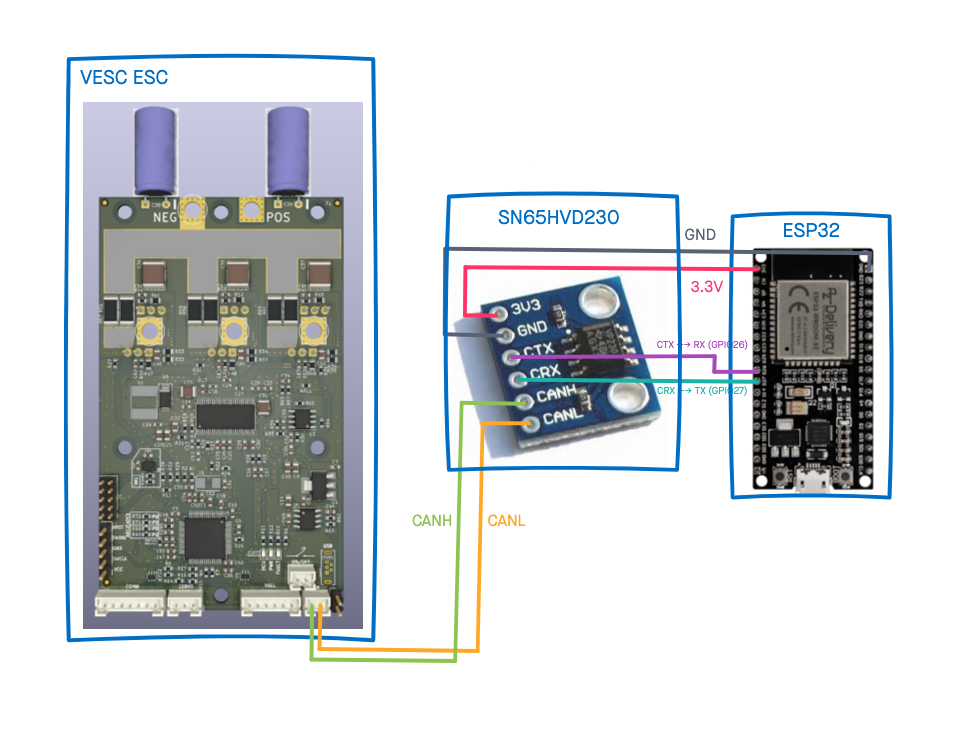
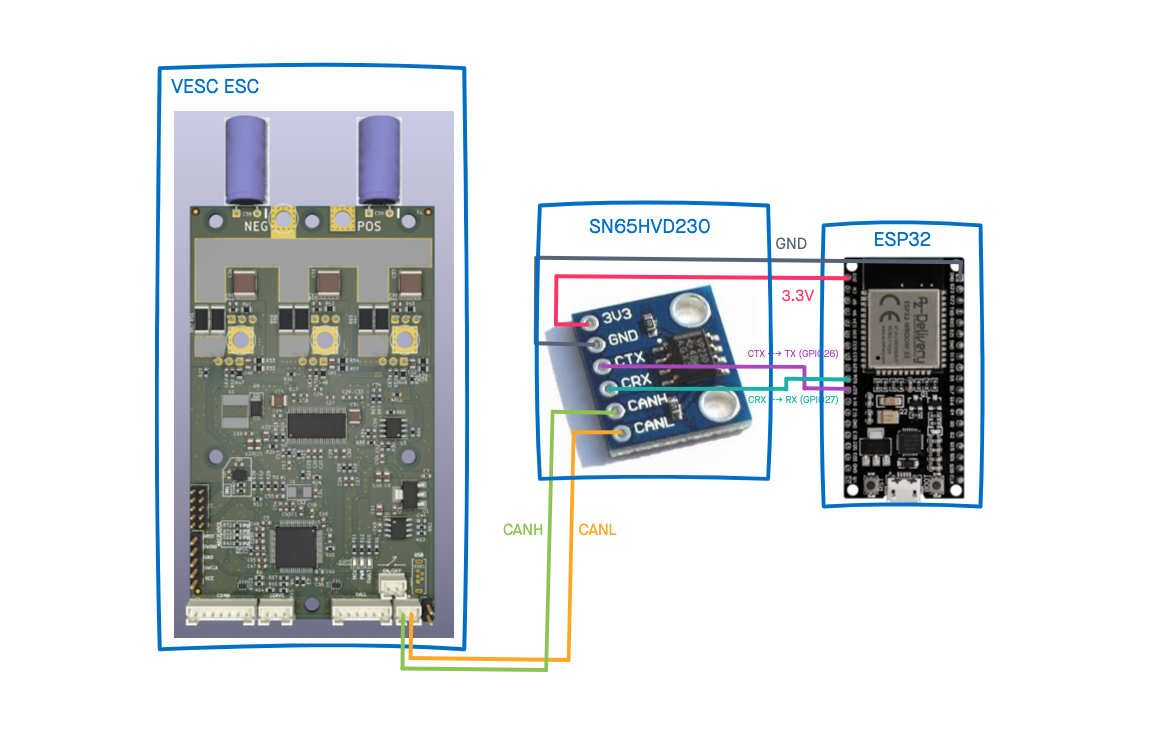
Updated config and doc according to PCB rev3

diff --git a/src/config.h b/src/config.h
@@ -18,7 +18,7 @@
 //#define LED_COB    // enables the light controller for tri-color COB-stripes
 
 #ifdef LED_WS28xx
- #define NUMPIXELS    16  // the number of LEDs if WS28xx is used
+ #define NUMPIXELS    32  // the number of LEDs if WS28xx is used
  #define LED_MODE_ODD_EVEN
 #endif //LED_WS28xx
 #ifdef LED_COB
@@ -61,7 +61,7 @@
   #define BLYNK_AUTH_TOKEN "bb48a7193d764ea7a90dbffb54ffcb76"
 #endif
 
-////#define FAKE_VESC_ENABLED
+///#define FAKE_VESC_ENABLED
 
 #endif //__CONFIG_H__
 

diff --git a/src/CanBus.cpp b/src/CanBus.cpp
@@ -27,10 +27,8 @@ CanBus::CanBus() {}
 
 void CanBus::init() {
     CAN_cfg.speed=CAN_SPEED_500KBPS;
-    //CAN_cfg.tx_pin_id = GPIO_NUM_26;
-    //CAN_cfg.rx_pin_id = GPIO_NUM_27;
-    CAN_cfg.tx_pin_id = GPIO_NUM_27;
-    CAN_cfg.rx_pin_id = GPIO_NUM_26;
+    CAN_cfg.tx_pin_id = GPIO_NUM_26;
+    CAN_cfg.rx_pin_id = GPIO_NUM_27;
     CAN_cfg.rx_queue = xQueueCreate(50,sizeof(CAN_frame_t));
   /*  
     CAN_filter_t p_filter;

diff --git a/README.md b/README.md
@@ -54,8 +54,8 @@ Connect your Cheap FOCer to GPIOs of the ESP32 as follows:
 |:---:|:---:|:---:|
 |GPIO 16 | RX| UART (if used)|
 |GPIO 17 | TX| UART (if used)|
-|GPIO 26 | CANBUS-RX | the GPIO is connected to the CAN-tranceiver, not directly to the CF2|
-|GPIO 27 | CANBUS-TX | the GPIO is connected to the CAN-tranceiver, not directly to the CF2|
+|GPIO 26 | CANBUS-TX | the GPIO is connected to the CAN-tranceiver, not directly to the CF2|
+|GPIO 27 | CANBUS-RX | the GPIO is connected to the CAN-tranceiver, not directly to the CF2|
 |GPIO 18 | PC13 | forward|
 |GPIO 19 | PC14 | backward|
 |GPIO 21 | PA15 | brake |
@@ -74,7 +74,7 @@ This table shows the PIN mapping:
 |GPIO 22 | MOSFET1 |COB white front / red back (if COB is used)|
 |GPIO 23 | MOSFET2 |COB red front / white back (if COB is used)|
 |GPIO 34 | Voltage divider |Battery input (if voltage divider is used)|
-|GPIO ?? | DIN battery |Battery indicator|
+|GPIO 2 | DIN battery |Battery indicator|
 
 
 ## Features

diff --git a/CHANGELOG.md b/CHANGELOG.md
@@ -1,5 +1,6 @@
 # 29.04.2021
 
+- updated PIN configuration according to rev3 of the rESCue PCB
 - updated documentation
 
 # 28.04.2021
